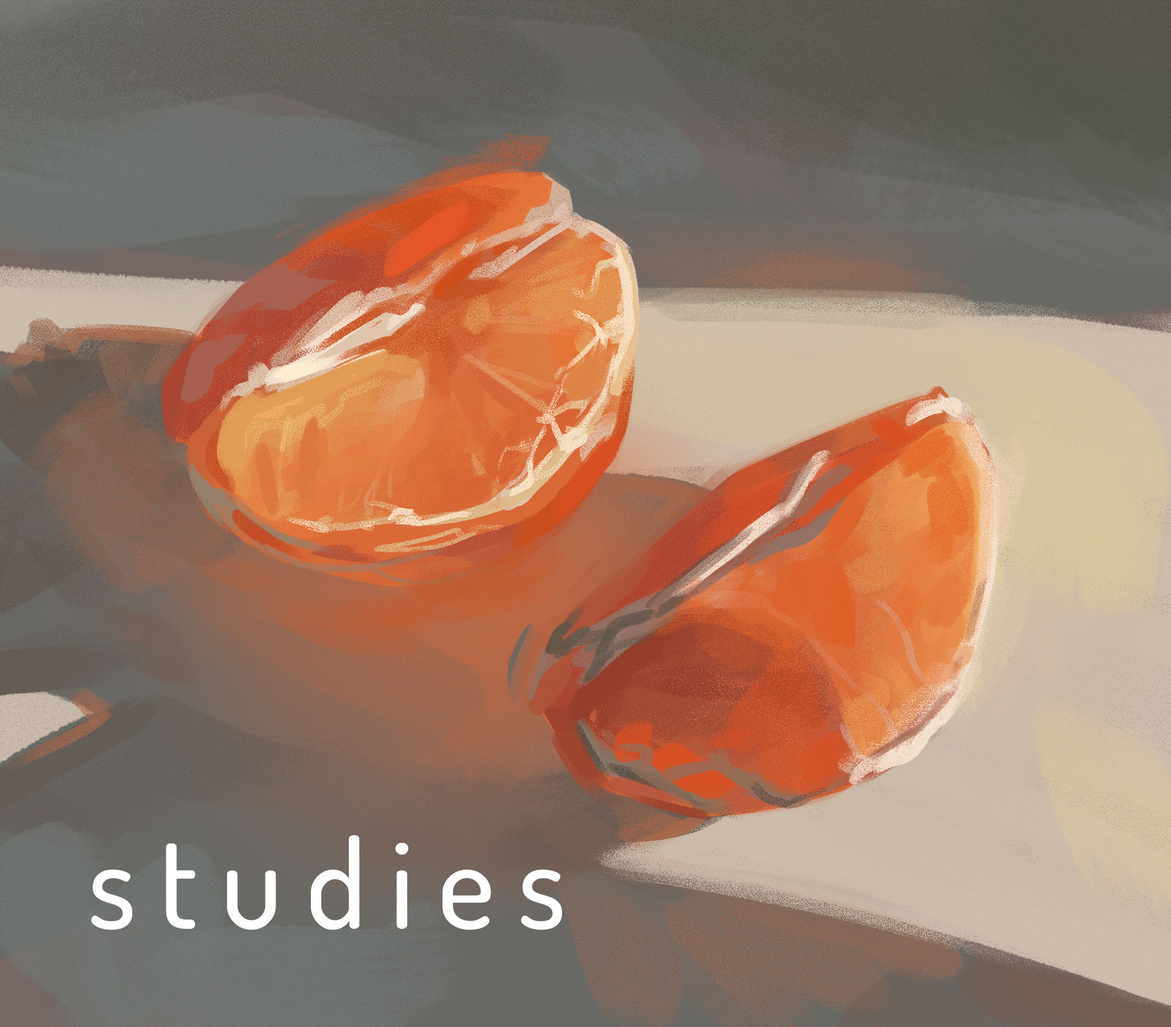
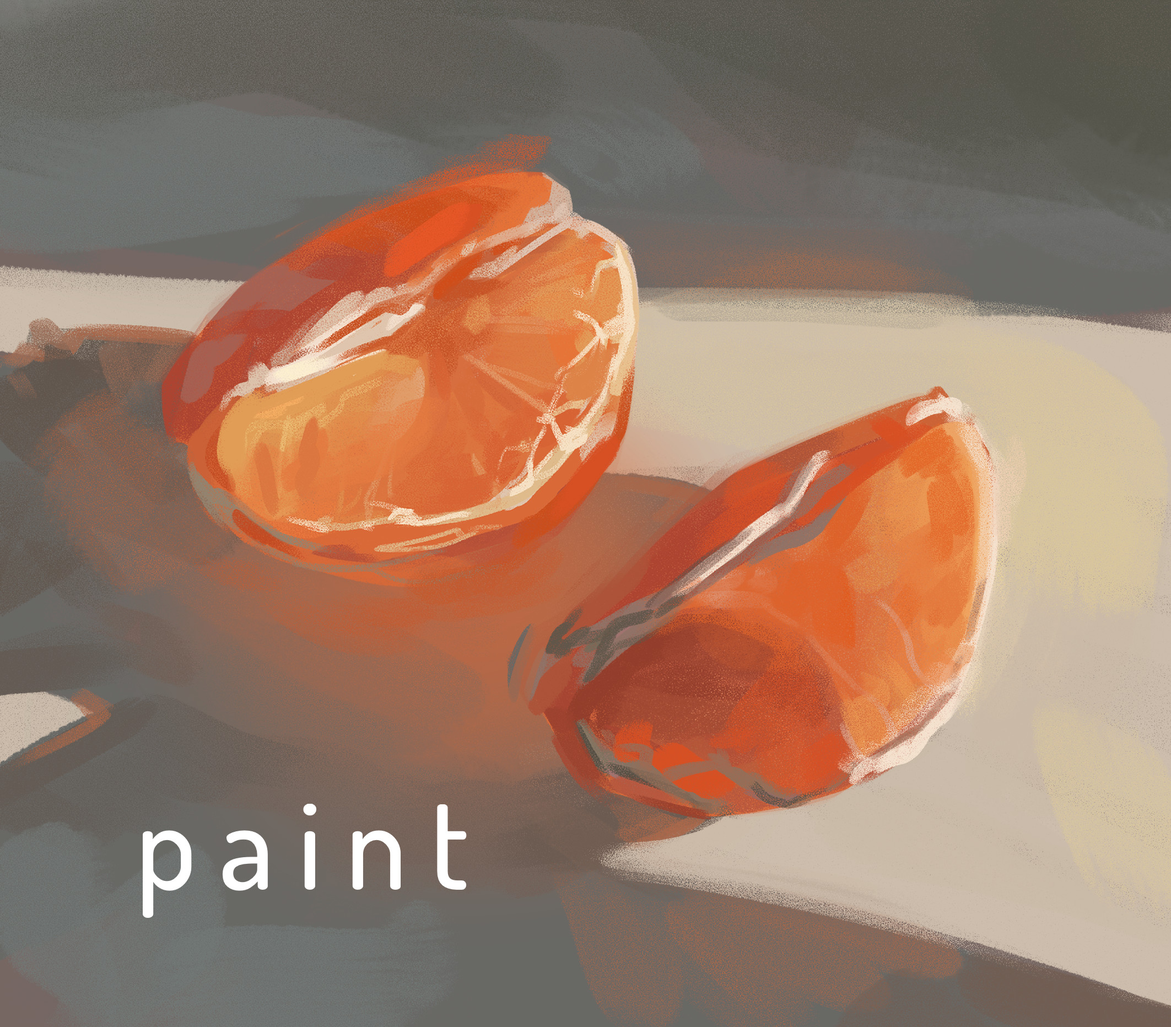
tyrants. about page. studies

Changed region(s): [[0.0621, 0.7783, 0.4969, 0.9028], [0.3727, 0.1245, 0.4659, 0.1868]]

diff --git a/index.html b/index.html
@@ -48,6 +48,11 @@ description: Jonadrew Portfolio
 	</div>
 
 	<div class="wrap">
+
+		<p>Additional gallery: <a href="../pencil">Pencil Sketches</a>
+	</div>
+
+	<div class="wrap">
 		<br />
 		<h2>Weekly Wednesday Newsletter</h2>
 		<p>See what I've been working on and hear some thoughts on making a living as an artist. Excited to have you! 
@@ -67,10 +72,7 @@ description: Jonadrew Portfolio
 		<img class="imag" src="/images/v2/Bloom.png">
 	</div>
 
-	<div class="wrap">
 
-		<p>Additional galleries: <a href="../pencil">Pencil Sketches</a>. <a href="../digital">Digital Paintings</a></p>
-	</div>
 	
 
 </section>

diff --git a/_pages/about.md b/_pages/about.md
@@ -6,11 +6,14 @@ description: About Jonadrew
 
 <img src="/images/profile.png" width="200">
 
-Hi! I'm Andrew, a self taught Freelance Illustrator located in San Francisco.
+Hi I'm Andrew!
 
-I started drawing in college and fell in love with it. I moved up to Seattle for an engineering job but left to do Illustration. Outside of work, I enjoy the outdoors and playing guitar. 
+I love bringing board games and books to life with my art and would love to hear from you <andrew@jonadrew.com>
 
-Currently I'm do book cover and board game art, but I'm open to trying out different things. I would love to hear from you! You can reach out to me at <andrew@jonadrew.com>, and I am most active on [Instagram-](https://www.instagram.com/jonadrew_/)
+To learn more about me personally, check out my [Newsletter / Blog](https://blog.jonadrew.com/profile)!
+
+
+
 
 <br />
 <br />
@@ -19,7 +22,7 @@ Currently I'm do book cover and board game art, but I'm open to trying out diffe
 <!-- #### Why the name Jonadrew?
 In middle school, my friend Jonathan and I wanted to make video games together, and Jonadrew was the name we used. I kept using the name when I became interested in making music , up until now when I love drawing and painting. So although Jonathan isn't involved in this project anymore, I continue to use Jonadrew because it represents my creative journey. -->
 
-**Extra Links:** [Newgrounds-](https://jonadrew.newgrounds.com), [Pose Generator](../pose/), [Itch-](https://jonadrew.itch.io/), [Soundcloud-](https://soundcloud.com/jonadrew), [Newsletter](../newsletter/)
+**Extra Links:** [Instagram](https://www.instagram.com/jonadrew_/), [Itch](https://jonadrew.itch.io/), [Soundcloud](https://soundcloud.com/jonadrew)
  
   <!-- but I also have a gallery up on 
  [Daily Paint Works](https://www.dailypaintworks.com/Artists/-jonadrew-13091) for most of 

diff --git a/_photo_posts/board games.md b/_photo_posts/board games.md
@@ -6,9 +6,21 @@ featured_image: '/images/titles/board.jpg'
 ---
 
 
+## Royal Tyrants
+(Ongoing) Series of posters for factions in a Chess-like board game. 
+
+<div class="gallery" data-columns="3">
+		{% assign title = page.title %}
+		{% for image in site.static_files %}
+			{% if image.path contains "tyrants" %}
+				<img src="{{ site.baseurl }}{{ image.path }}" alt="image" />
+			{% endif %}
+		{% endfor %}
+</div>
+
 ## Call of Pooh-Thulu
 
-(March 24 - Sept 2024) [Kickstarter](https://www.kickstarter.com/projects/1155362758/the-call-of-pooh-thulhu-cthulhu-comes-to-the-100-acre-woods) Set to release Halloween 2024
+(March 24 - Sept 2024) [Kickstarter](https://www.kickstarter.com/projects/1155362758/the-call-of-pooh-thulhu-cthulhu-comes-to-the-100-acre-woods) Launched Halloween 2024
 
  Winnie the Pooh meets Cthulhu in a horror themed role play card game. 
 <div class="gallery" data-columns="3">
@@ -63,7 +75,7 @@ Mockups:
 
 
 
-## Emergence
+<!-- ## Emergence
 
 
 (2022) Illustrations for a deception game based on androids 
@@ -77,4 +89,4 @@ Illustrations and Graphic Design by me. Game Design and Graphic Design by Roger 
 				<img src="{{ site.baseurl }}{{ image.path }}" alt="image" />
 			{% endif %}
 		{% endfor %}
-</div>
+</div> -->

diff --git a/_photo_posts/paint.md b/_photo_posts/paint.md
@@ -1,11 +1,11 @@
 ---
 layout: post_multiple
-title: Studies
+title: Digital Painting
 order: 10
 featured_image: '/images/titles/study.jpg'
 ---
 
-Some studies of different subject matter
+Some paintings of different subject matter
 
 <div class="gallery" data-columns="3">
 		{% assign title = page.title %}
